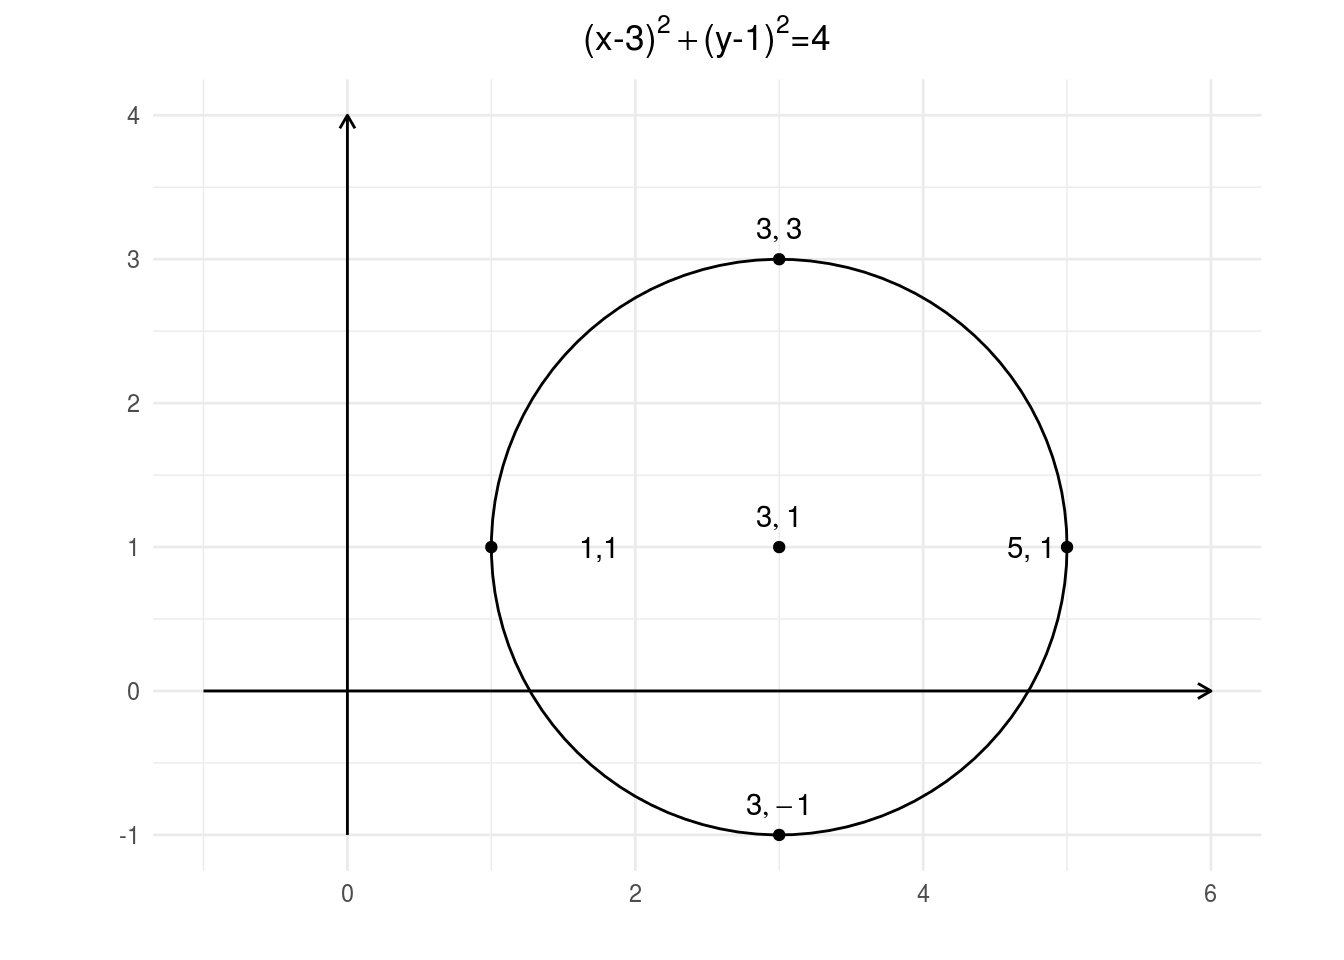
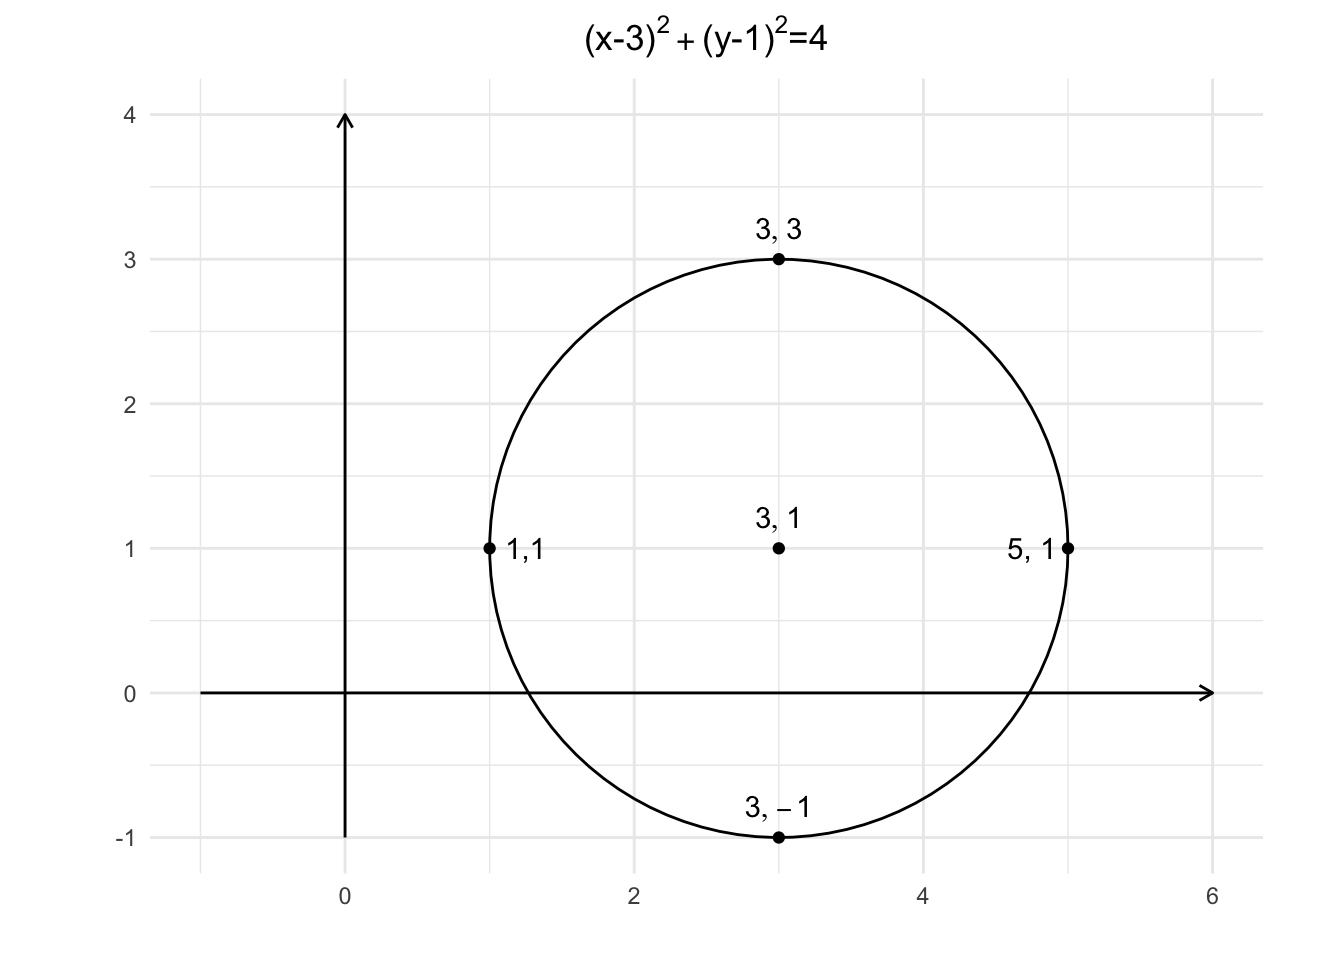
Better circle

diff --git a/public/2018/08/16/conic-sections-con-ggplot/index.html b/public/2018/08/16/conic-sections-con-ggplot/index.html
@@ -121,7 +121,7 @@ g &lt;- ggplot() +
             nudge_y = 0.2,
             aes(x=x, y=y, label = paste0(&quot;list(&quot;, x ,&quot;,&quot;, y, &quot;)&quot;))) +
   annotate(&quot;point&quot;, x=1, y=1) + 
-  annotate(&quot;text&quot;, x=1.75, y=1, label=&quot;1,1&quot;) + 
+  annotate(&quot;text&quot;, x=1.25, y=1, label=&quot;1,1&quot;) + 
   annotate(&quot;point&quot;, x=5, y=1) + 
   annotate(&quot;text&quot;, x=4.75, y=1, label=&quot;5, 1&quot;) + 
   labs(x=&quot;&quot;, y=&quot;&quot;) + 
@@ -129,13 +129,6 @@ g &lt;- ggplot() +
   coord_fixed()
 g</code></pre>
 <p><img src="/post/2018-08-16-conic-sections-con-ggplot_files/figure-html/unnamed-chunk-3-1.png" width="672" /></p>
-<p>Muchos gráficos en un con gridExtra</p>
-<pre class="r"><code>library(gridExtra)
-## 
-## Attaching package: &#39;gridExtra&#39;
-## The following object is masked from &#39;package:dplyr&#39;:
-## 
-##     combine</code></pre>
 </div>
 
     </div>

diff --git a/content/post/2018-08-16-conic-sections-con-ggplot.html b/content/post/2018-08-16-conic-sections-con-ggplot.html
@@ -61,7 +61,7 @@ g &lt;- ggplot() +
             nudge_y = 0.2,
             aes(x=x, y=y, label = paste0(&quot;list(&quot;, x ,&quot;,&quot;, y, &quot;)&quot;))) +
   annotate(&quot;point&quot;, x=1, y=1) + 
-  annotate(&quot;text&quot;, x=1.75, y=1, label=&quot;1,1&quot;) + 
+  annotate(&quot;text&quot;, x=1.25, y=1, label=&quot;1,1&quot;) + 
   annotate(&quot;point&quot;, x=5, y=1) + 
   annotate(&quot;text&quot;, x=4.75, y=1, label=&quot;5, 1&quot;) + 
   labs(x=&quot;&quot;, y=&quot;&quot;) + 
@@ -69,11 +69,4 @@ g &lt;- ggplot() +
   coord_fixed()
 g</code></pre>
 <p><img src="/post/2018-08-16-conic-sections-con-ggplot_files/figure-html/unnamed-chunk-3-1.png" width="672" /></p>
-<p>Muchos gráficos en un con gridExtra</p>
-<pre class="r"><code>library(gridExtra)
-## 
-## Attaching package: &#39;gridExtra&#39;
-## The following object is masked from &#39;package:dplyr&#39;:
-## 
-##     combine</code></pre>
 </div>
